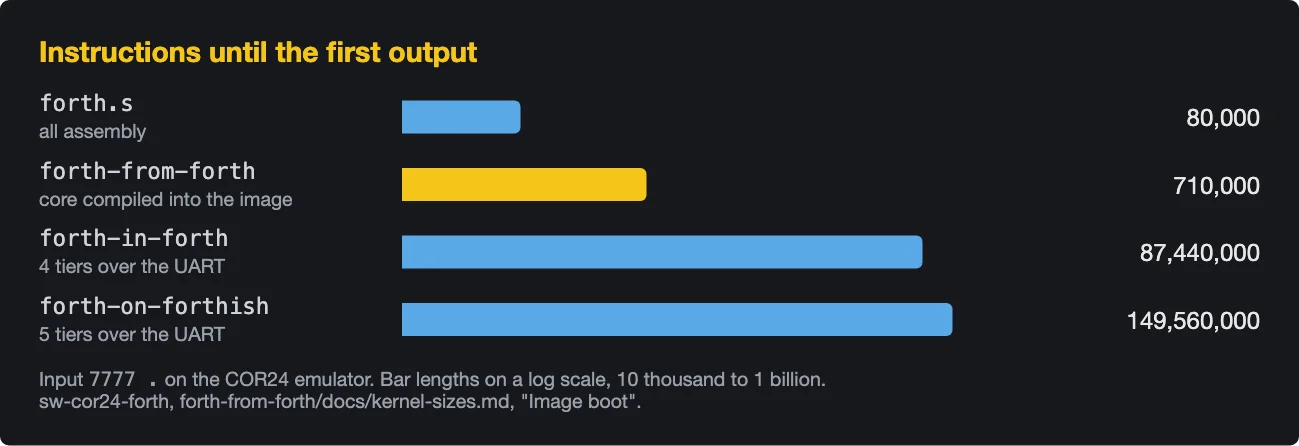
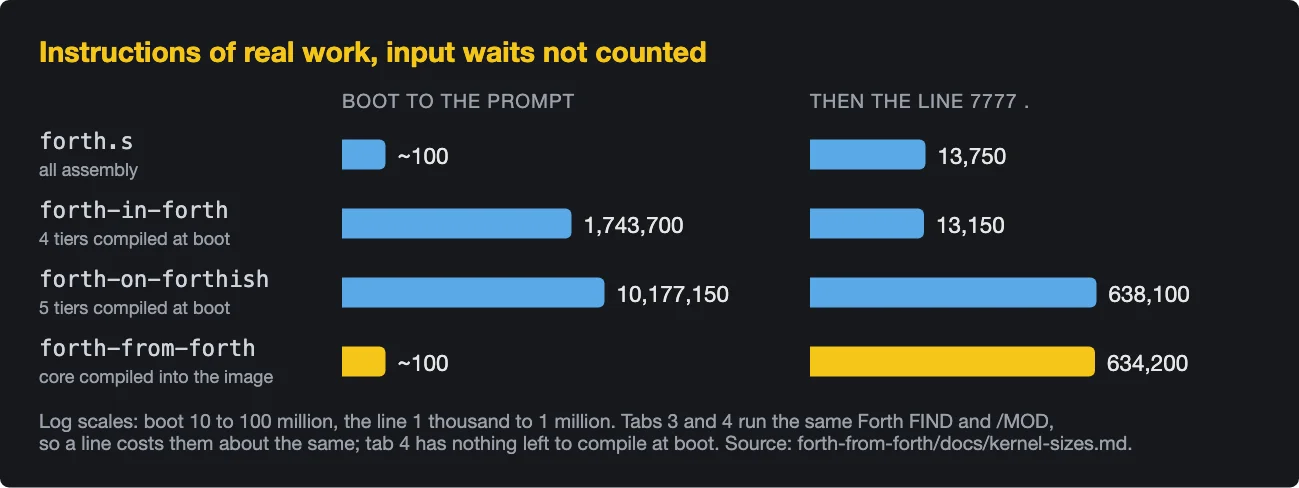
Draft Embedded #4: brief revised again (self-hosted by default, hash deleted, corrected boot numbers); rebuild section after the primitives

diff --git a/_drafts/embedded-forth-from-forth.md b/_drafts/embedded-forth-from-forth.md
@@ -5,7 +5,7 @@ date: 2026-10-24 00:15:00 -0700
 categories: [embedded, programming-languages, deep-dive]
 tags: [embedded, forth, self-hosting, cor24, cross-compiler, kernel, bootstrapping, threaded-code, forth-from-forth]
 keywords: "Forth from Forth, Forth cross-compiler, self-hosting Forth kernel, COR24, sw-cor24-forth, forth-from-forth, kernel.s as a build artifact, Forth primitives, bootstrapping, threaded code"
-abstract: "Phase 4 of the COR24 Forth kernel, finished: a cross-compiler written in Forth turns the core's Forth source into the kernel's dictionary and writes the primitives in a small Forth assembler vocabulary, so the whole kernel.s is generated from Forth and boots straight into the Forth QUIT. Run on the kernel it just built, the compiler reproduces that kernel exactly: the hand-written kernel was needed only to start the chain. First output after 710 thousand instructions instead of 150 million. Why it sat for six months (a minus sign), what the April posts predicted, the new fourth tab in the web demo, and what still is not Forth: the assembler that turns the text into bytes."
+abstract: "Phase 4 of the COR24 Forth kernel, finished: a cross-compiler written in Forth turns the core's Forth source into the kernel's dictionary and writes the primitives in a small Forth assembler vocabulary, so the whole kernel.s is generated from Forth and boots straight into the Forth QUIT. Run on the kernel it just built, the compiler reproduces that kernel exactly, and the build now runs that way by default: the hand-written kernel was needed only to start the chain. Boot to the prompt now takes about a hundred instructions instead of ten million. Why it sat for six months (a minus sign), what the April posts predicted, the new fourth tab in the web demo, and what still is not Forth: the assembler that turns the text into bytes."
 series: "Embedded"
 series_part: 4
 repo_url: "https://github.com/sw-embed/sw-cor24-forth"
@@ -22,8 +22,11 @@ repo_url: "https://github.com/sw-embed/sw-cor24-forth"
      delete-bootstrap-and-rebaseline, 6 web-tab-4 (web-sw-cor24-forth), 7 blog-brief, 8 deck-update. kernel.s is still a copy of
      phase 3's. The saga's blog-brief step will hand over the facts; fill from it, the docs and the commits, not from this plan.
      2026-10-23 evening: filled from the repo's blog brief (docs/blog/2026-phase-4-forth-from-forth-brief.md, 4afec14, revised 2c461b6
-     with the Forth primitives 5b874f5 and the fixed point 0208844; all pushed). Numbers spot-checked against origin/main kernel-sizes.md, prims.fth
-     (32 PRIM: lines), xcomp.fth (621 lines after the revision). Figures: boot chart drawn from kernel-sizes.md; tab 4 captured from the live demo
+     with the Forth primitives 5b874f5 and the fixed point 0208844; revised again 6c8ec30 (self-hosted by default) and
+     0f89bc3 (hash deleted, boot numbers corrected: the April-style first-output counts were mostly emulator input pacing); all pushed.
+     NOT live at drafting: tab 4's Rebuild kernel button and tests/boot_cost.rs (uncommitted in web-sw-cor24-forth); the boot numbers
+     are cited from kernel-sizes.md instead. Add the button to "In the browser" when it ships.) Numbers spot-checked against origin/main kernel-sizes.md, prims.fth
+     (32 PRIM: lines), xcomp.fth (625 lines at 0f89bc3). Figures: boot chart drawn from kernel-sizes.md; tab 4 captured from the live demo
      (build a2caefd). Mike's point: a Forth compiler compiling itself; the revised brief has it (tf24a_fff_fixed_point), with the
      caveat that cor24-asm, not Forth, turns the text into bytes. status.md still has stale rows (6a template, web tab 4).
      Lead image: Mike's block-rabbit-watch.jpg (2026-10-23, ~/Downloads), monochrome; no-invert (Mike, 2026-10-23: inverted prints look poor in dark mode). -->
@@ -60,7 +63,7 @@ The bug was not in the compiler. Phase 3's Forth `NUMBER` read the minus sign fr
 ## The cross-compiler
 {: .pos-left}
 
-[`compiler/xcomp.fth`](https://github.com/sw-embed/sw-cor24-forth/blob/main/forth-from-forth/compiler/xcomp.fth) is 621 lines of Forth: the compiler and a small COR24 assembler vocabulary. It reads the five core tiers as ordinary Forth source and writes their dictionary as COR24 assembly text. The 32 primitives underneath are registered, one line each, in [`core/prims.fth`](https://github.com/sw-embed/sw-cor24-forth/blob/main/forth-from-forth/core/prims.fth), which ties each Forth name to the label of its code:
+[`compiler/xcomp.fth`](https://github.com/sw-embed/sw-cor24-forth/blob/main/forth-from-forth/compiler/xcomp.fth) is 625 lines of Forth: the compiler and a small COR24 assembler vocabulary. It reads the five core tiers as ordinary Forth source and writes their dictionary as COR24 assembly text. The 32 primitives underneath are registered, one line each, in [`core/prims.fth`](https://github.com/sw-embed/sw-cor24-forth/blob/main/forth-from-forth/core/prims.fth), which ties each Forth name to the label of its code:
 
 ```forth
 PRIM: LIT     do_lit
@@ -110,19 +113,37 @@ l: do_plus
   r0 jmp,
 ```
 
-Run, these words print COR24 assembler text, and the result is byte-identical to the hand-written primitives they replaced. The generated `kernel.s` now has no hand-written template behind it: 3,917 lines, all from Forth. The vocabulary prints text, though; it does not encode instructions. The COR24 assembler, `cor24-asm`, still turns that text into bytes.
+Run, these words print COR24 assembler text, and the result is byte-identical to the hand-written primitives they replaced. The generated `kernel.s` now has no hand-written template behind it, and with the primitives in Forth, deleting the unused `FIND` hash table became a Forth edit too: 3,508 lines, all from Forth. The vocabulary prints text, though; it does not encode instructions. The COR24 assembler, `cor24-asm`, still turns that text into bytes.
 
-## Booting already compiled
+## The kernel rebuilds itself
 {: .pos-right}
 
-<figure class="zoomable outdent-left">
-<img src="{{ '/assets/images/posts/fff-boot-instructions.webp' | relative_url }}" class="no-invert" alt="A bar chart on a log scale of instructions until the first output for the input 7777 dot on the COR24 emulator: forth.s, all assembly, 80,000; forth-from-forth, core compiled into the image, 710,000; forth-in-forth, four tiers over the UART, 87,440,000; forth-on-forthish, five tiers over the UART, 149,560,000">
-<figcaption style="font-size: 0.85em;">Instructions until the first output, per kernel, on a log scale. Click to enlarge.</figcaption>
+The first build of forth-from-forth was a bootstrap. The cross-compiler ran on the phase-3 kernel, forth-on-forthish, which was built from hand-written assembly, and emitted the new kernel. The question that matters is what happens when the new kernel does the job itself.
+
+So the build was run again with the compiler on forth-from-forth's own kernel. It reproduced forth-from-forth's `kernel.s` exactly, every byte of the text ([0208844](https://github.com/sw-embed/sw-cor24-forth/commit/0208844)). That is the fixed point a self-hosting compiler is judged by: built by itself, it builds itself, unchanged.
+
+Since then the build runs that way by default ([6c8ec30](https://github.com/sw-embed/sw-cor24-forth/commit/6c8ec30)): the committed kernel already holds the core, so only the compiler is streamed in, and it regenerates the kernel it is running on. The hand-written kernel is now only the root of the chain. Two golden tests keep both ends honest, `tf24a_fff_image_current` (the self-hosted build reproduces `kernel.s`) and `tf24a_fff_bootstrap_root` (starting again from the hand-written kernel gives the same `kernel.s`):
+
+```sh
+forth-from-forth/scripts/build-image.sh --check                                   # self-hosted
+XC_HOST=forth-on-forthish/kernel.s forth-from-forth/scripts/build-image.sh --check  # from the root
+```
+
+A full build, primitives and dictionary, is about 1.26 billion instructions of real work and about 30 seconds of wall time, since the compiler runs inside the emulator.
+
+## Booting already compiled
+{: .pos-left}
+
+<figure class="zoomable outdent-right">
+<img src="{{ '/assets/images/posts/fff-boot-instructions.webp' | relative_url }}" class="no-invert" alt="Two bar charts on log scales of instructions of real work, with input waits not counted. Boot to the prompt: forth.s about 100, forth-in-forth 1,743,700, forth-on-forthish 10,177,150, forth-from-forth about 100. Then the line 7777 dot: forth.s 13,750, forth-in-forth 13,150, forth-on-forthish 638,100, forth-from-forth 634,200">
+<figcaption style="font-size: 0.85em;">Boot to the prompt, then one line, per kernel, on log scales. Click to enlarge.</figcaption>
 </figure>
 
-`scripts/build-image.sh` splices the compiled dictionary into the kernel. At reset, `_start` points `LATEST` at the newest compiled entry, and the start thread runs the Forth `QUIT`. Nothing is read over the UART until the user types.
+At reset, `_start` points `LATEST` at the newest compiled entry, and the start thread runs the Forth `QUIT`. Nothing is compiled at boot, and nothing is read over the UART until the user types.
 
-Measured on the COR24 emulator, with the input `7777 .`, the first output now comes after 710 thousand instructions. Phase 3 needed about 150 million, phase 2 about 87 million, and the all-assembly kernel 80 thousand. In the web app, through the same UART pump the browser uses, tab 4 is ready after one tick of the pump and tab 3 after 74.
+Counting only real work, with each input byte handed over the moment the kernel asks for it, boot to the prompt now takes about a hundred instructions, as the all-assembly kernel does. Phase 3 needed about ten million, compiling its five tiers from text at every start, and phase 2 about 1.7 million. (The repo's earlier figures, instructions to the first output, were mostly the emulator waiting: it hands over at most one input byte per 10,000-instruction batch.) In the web app, through the same UART pump the browser uses, tab 4 is ready after one tick of the pump and tab 3 after 74.
+
+Each line typed still costs what it did in phase 3. Tabs 3 and 4 run the same Forth: `FIND` walks the whole dictionary, about 127 entries, comparing strings in Forth, and `/MOD` is a Forth loop of repeated subtraction, since COR24 has no divide. So `7777 .` costs about 634 thousand instructions, most of them (about 475 thousand) in the roughly 860 trips round `/MOD` that printing it takes; phase 2, with its hashed assembly `FIND` and assembly `/MOD`, does the same line in about 13 thousand.
 
 Getting the assembly bootstrap out of the image took one more Forth definition. The last assembly code that called the assembly `WORD` and `FIND` was `[']`, and a Forth one replaced it ([8ab0170](https://github.com/sw-embed/sw-cor24-forth/commit/8ab0170)):
 
@@ -138,15 +159,16 @@ A reachability pass then removed everything nothing referred to: 85 blocks and 1
 | phase 4, image with the bootstrap still in | 5,087 | 9,450 |
 | phase 4, bootstrap removed | 4,060 | 8,168 |
 | phase 4, primitives from Forth | 3,917 | 8,168 |
+| phase 4, `FIND` hash table removed | 3,508 | 7,098 |
 
-The phase-4 kernel is bigger than phase 3's because it carries the compiled core: 83 definitions, 2,427 lines of emitted assembly, about 5.4 KB on their own. Phase 3 carried the same core as source and compiled it at every boot. A full build, primitives and dictionary, takes about 80 seconds, since the compiler runs inside the emulator. All 92 golden-output tests pass.
+The phase-4 kernel is bigger than phase 3's because it carries the compiled core: 83 definitions, 2,427 lines of emitted assembly, about 5.4 KB on their own. Phase 3 carried the same core as source and compiled it at every boot. All 92 golden-output tests pass.
 
 ## What the April posts predicted
 {: .pos-center}
 
 The [rabbit-hole posts](/2026/04/23/rabbit-hole-deep-dive-forth-find-cost-of-a-name/) from April worked through what phase 4 would need. Checked against what was built:
 
-- **"Phase 4 deletes the hashing subsystem."** Mostly. The assembly `FIND` that used the hash is gone from the image. The hash table itself is still there, unused: the assembly `CREATE` maintains it and `_start` fills it. Now that the primitives are Forth, removing it is a Forth edit.
+- **"Phase 4 deletes the hashing subsystem."** True, in two steps. The assembly `FIND` that used the hash left when a Forth `[']` replaced its last caller. The table, the loop in `_start` that filled it and its upkeep in `CREATE` stayed until the primitives were Forth; then deleting them was a Forth edit: 259 lines of `prims-asm.fth`, 1,070 bytes of kernel, and boot down from about 22,000 instructions to about 100.
 - **Caches to replace the hash** (a numeric fast path, recent hits, hot tokens): none were built. Boot no longer runs `FIND` over the core at all, which was the cost they targeted. Interactive `FIND` speed was not measured.
 - **Dictionary compaction and specialized images:** not done. The image keeps every core word, development words such as `SEE` and `DUMP-ALL` included. The relocation problem that post described did not arise, because the image is assembled from text with labels rather than relocated.
 - **Forward references as linker-style fixups:** not needed for the core. Every definition is registered before its body is read, so later definitions and self-reference resolve by name, and the core has no mutual recursion. The retargetable second backend that post proposed was not built.
@@ -173,18 +195,8 @@ Finishing phase 4 turned up bugs in the older kernels and in the tests:
 - **Fixed in the tests:** six golden tests kept only the first 100 to 250 lines of output, so the Fibonacci tests never compared the Fibonacci result; and the emulator's default 10-second limit cut runs short under load.
 - **Not fixed:** `2SWAP` and `2OVER` in the layered kernels are wrong (`1 2 3 4 2SWAP` leaves `2 1 4 3`); `.` prints -8388608 as `-0`; and tab 3 starts each session with a stray value on its stack, left by errors its assembly bootstrap prints while loading the core.
 
-## The kernel rebuilds itself
+## What is still not Forth
 {: .pos-right}
 
-Building forth-from-forth is a bootstrap. The cross-compiler normally runs on the phase-3 kernel, forth-on-forthish, which was built from hand-written assembly, and emits the new kernel. The question that matters is what happens when the new kernel does the job itself.
-
-So the build was run again with the compiler on forth-from-forth's own kernel. It reproduced forth-from-forth's `kernel.s` exactly, every byte of the text ([0208844](https://github.com/sw-embed/sw-cor24-forth/commit/0208844)). That is the fixed point a self-hosting compiler is judged by: built by itself, it builds itself, unchanged. From here, the hand-written kernel is only the root of the chain, needed once to start it. A golden test, `tf24a_fff_fixed_point`, now runs that build on every change, and anyone can repeat it:
-
-```sh
-XC_HOST=forth-from-forth/kernel.s forth-from-forth/scripts/build-image.sh --check
-```
-
-## What is still not Forth
-
-- **The assembler.** The kernel's assembly is generated by Forth, but `cor24-asm` turns it into bytes. A Forth instruction encoder, the piece Embedded #3 expected retargeting to hinge on, is the next step, after which the image would need no external assembler.
-- **Leftovers:** the unused `FIND` hash table; `DO`, `?DO`, `LOOP`, `CONSTANT` and `VARIABLE` in the cross-compiler, left out because no core tier uses them; and the second, retargetable backend and the Forth-builder kit from the spring, which are still plans.
+- **The assembler.** The kernel is generated from Forth down to assembly text, and `cor24-asm` turns the text into bytes. That is where the work stops for now. A Forth instruction encoder, the piece Embedded #3 expected retargeting to hinge on, could replace it later; it is not planned.
+- **Leftovers:** `DO`, `?DO`, `LOOP`, `CONSTANT` and `VARIABLE` in the cross-compiler, left out because no core tier uses them; and the second, retargetable backend and the Forth-builder kit from the spring, which are still plans.
